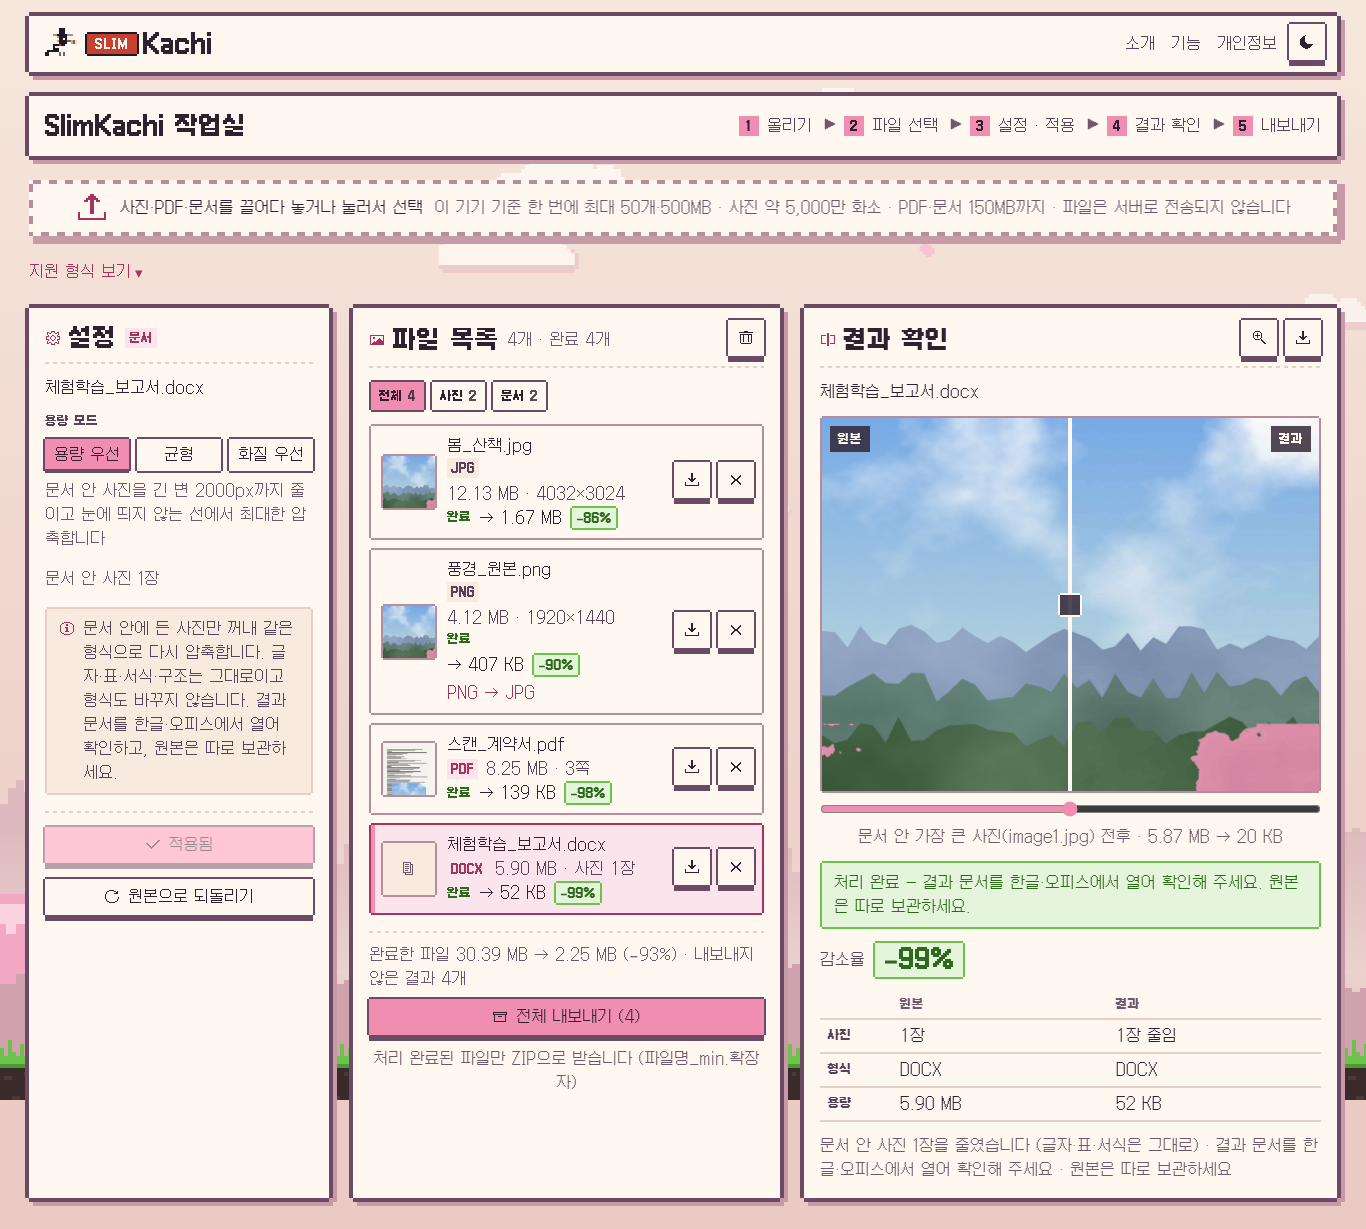
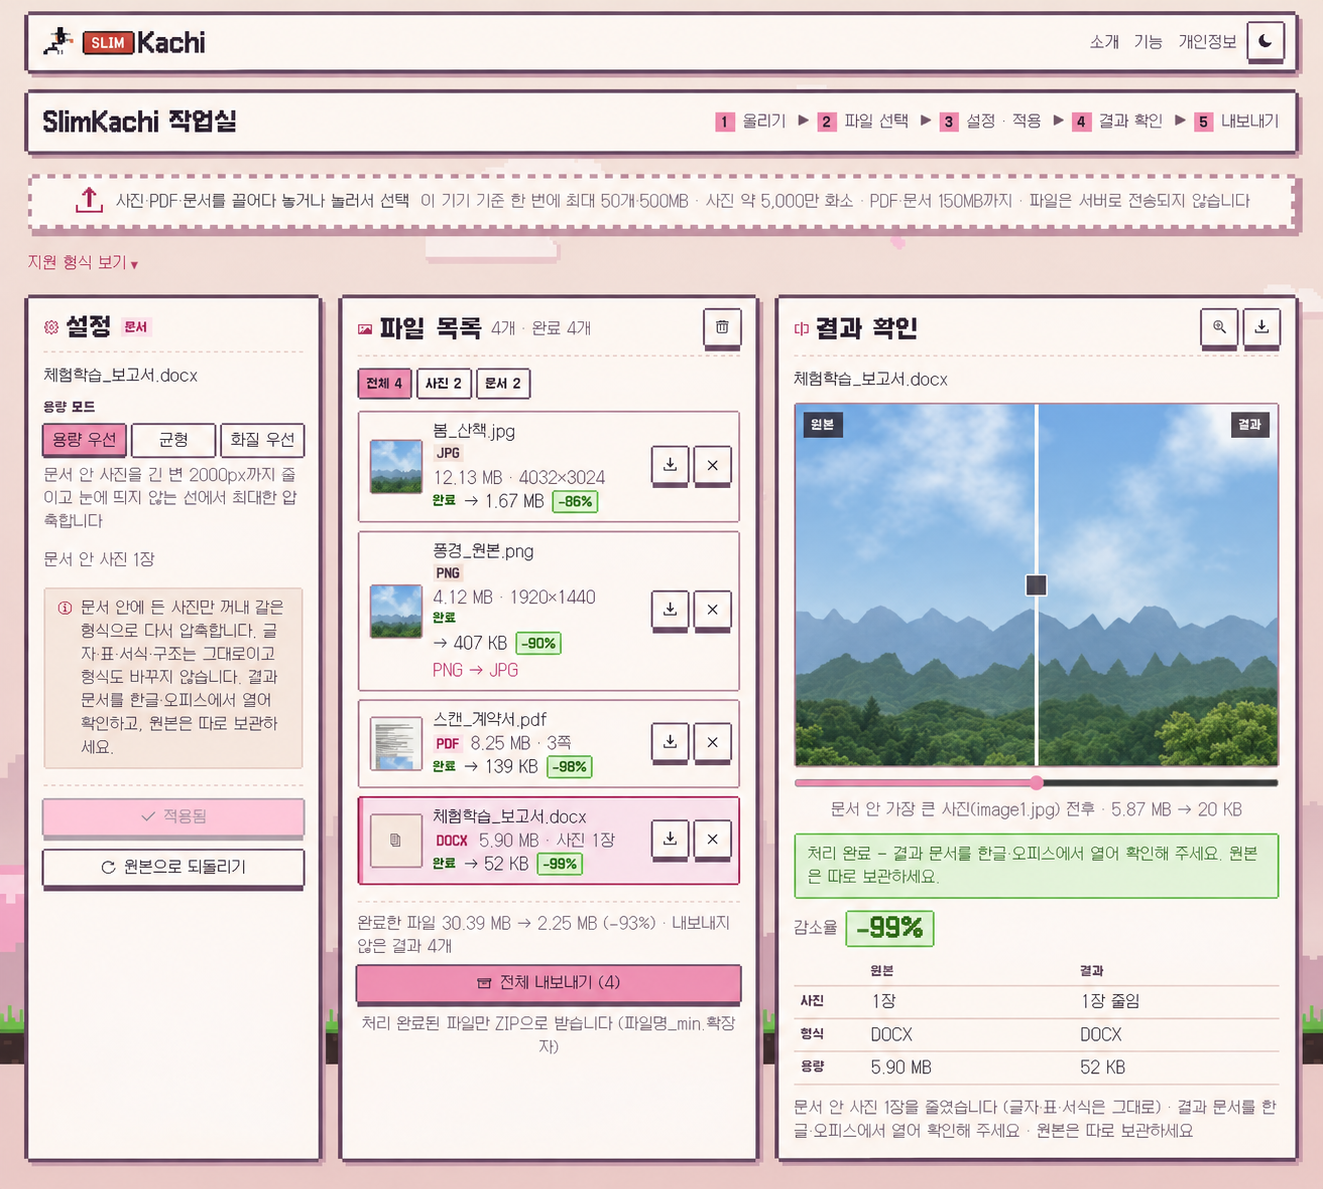
style: pixel badge language switcher and updated screenshots

diff --git a/css/shell.css b/css/shell.css
@@ -112,13 +112,24 @@ strong, b { font-weight: 400; color: var(--text); }   /* Galmuri14 에는 굵은
 .app-header__links { display: flex; gap: var(--space-4); }
 .app-header__links a { color: var(--text-secondary); text-decoration: none; }
 .app-header__links a:hover { color: var(--text-link); text-decoration: underline; text-underline-offset: 4px; }
-/* 언어 전환 (한국어 / English / 日本語) — 지금 언어는 진하게 + 밑줄. 자동 이동은 하지 않는다 */
+/* 언어 전환 (한국어 / English / 日本語) — SLIM 배지와 같은 픽셀 칸. 지금 언어는 벚꽃색으로 채움. 자동 이동은 하지 않는다 */
 .app-header__lang { display: flex; align-items: center; gap: var(--space-2); }
-.app-header__lang a { color: var(--text-secondary); text-decoration: none; }
-.app-header__lang a + a::before { content: "/"; margin-right: var(--space-2); color: var(--text-muted); }
-.app-header__lang a:hover { color: var(--text-link); }
-.app-header__lang a[aria-current="page"] { color: var(--text); text-decoration: underline; text-underline-offset: 4px; }
-
+.app-header__lang a {
+  --bw: var(--line); --bc: var(--border);
+  font-size: var(--font-size-xs); line-height: 1;
+  padding: var(--space-1) var(--space-2); margin: var(--line);
+  background: var(--accent-soft); color: var(--text-secondary); text-decoration: none;
+  box-shadow:
+    0 calc(-1 * var(--bw)) 0 0 var(--bc), 0 var(--bw) 0 0 var(--bc),
+    calc(-1 * var(--bw)) 0 0 0 var(--bc), var(--bw) 0 0 0 var(--bc);
+}
+.app-header__lang a:hover { --bc: var(--accent); color: var(--text); }
+.app-header__lang a[aria-current="page"] {
+  --bc: var(--kachi-ink);
+  font-family: var(--font-bold); font-weight: 700;
+  background: var(--accent); color: var(--accent-text);
+}
+:root[data-mode="night"] .app-header__lang a[aria-current="page"] { --bc: var(--kachi-outline); }
 /* ---- 본문(앱 마운트 영역) ---- */
 .app-main {
   flex: 1 1 auto;
@@ -269,6 +280,10 @@ ins.adsbygoogle, .google-auto-placed {
   .app-header__links { gap: var(--space-3); }
   /* 좁은 화면: 언어 전환은 헤더 아래 줄 오른쪽으로 */
   .app-header__lang { order: 10; width: 100%; justify-content: flex-end; }
+  /* 영어 페이지만: "About Features Privacy" 가 한국어보다 넓어 낮/밤 버튼이 다음 줄로 밀리므로
+     링크를 소형 라벨 글꼴(Galmuri11 Bold 12px — 설계 크기 그대로)로 줄이고 간격도 좁힌다. 한국어·일본어는 그대로 */
+  :root[lang="en"] .app-header__links { gap: var(--space-1); }
+  :root[lang="en"] .app-header__links a { font-family: var(--font-bold); font-weight: 700; font-size: var(--font-size-xs); }
   .app-main { padding-top: var(--space-4); }
   .intro { padding: var(--space-4) var(--space-4) var(--space-2); margin-top: var(--space-5); }
   .app-footer { margin-bottom: calc(48px + var(--space-4)); }
